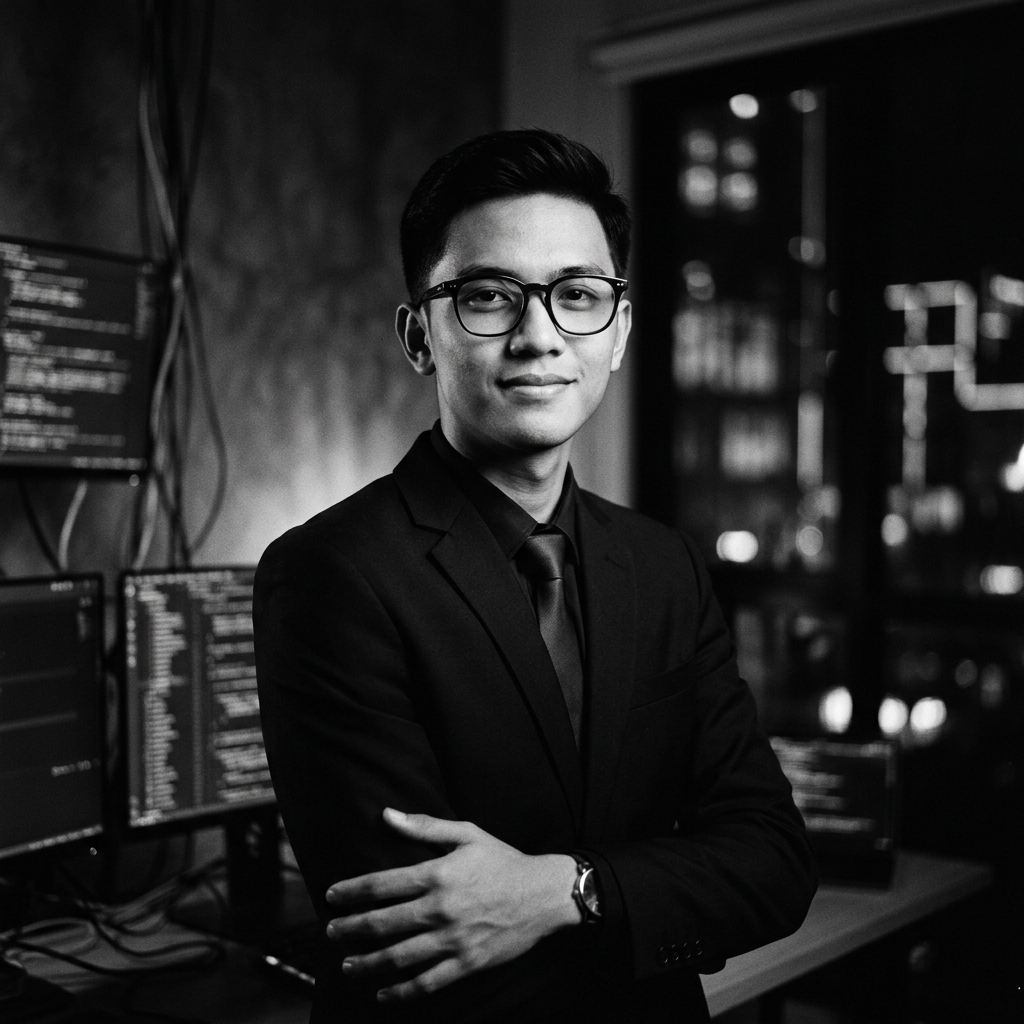
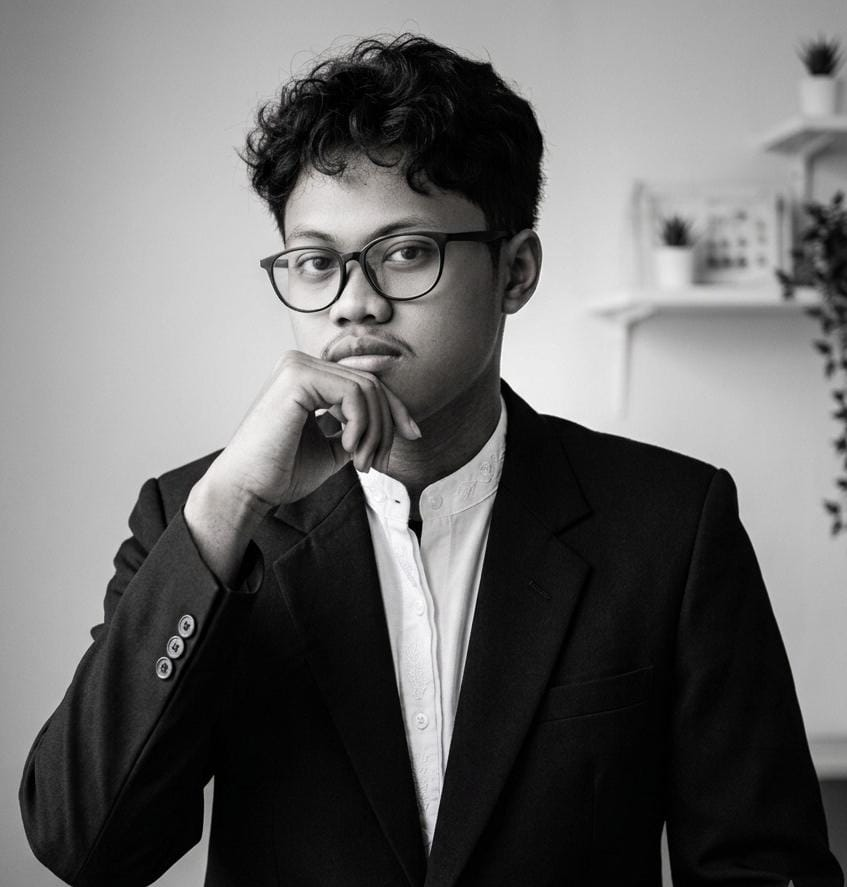
perubahan pp dan apus DevPortfolio

diff --git a/resources/views/layouts/app.blade.php b/resources/views/layouts/app.blade.php
@@ -122,15 +122,12 @@
                 <div class="flex items-center justify-between h-16">
 
                     {{-- Brand Logo --}}
-                    <a href="{{ route('home') }}" class="flex items-center gap-2.5 group">
+                    <a href="{{ route('home') }}" class="flex items-center gap-2.5 group" aria-label="Home">
                         <div class="w-8 h-8 rounded-lg bg-indigo-600/20 border border-indigo-500/30 flex items-center justify-center group-hover:bg-indigo-600/30 group-hover:border-indigo-500/50 transition-all">
                             <svg xmlns="http://www.w3.org/2000/svg" class="w-4 h-4 text-indigo-400" fill="none" viewBox="0 0 24 24" stroke="currentColor" stroke-width="2">
                                 <path stroke-linecap="round" stroke-linejoin="round" d="M10 20l4-16m4 4l4 4-4 4M6 16l-4-4 4-4"/>
                             </svg>
                         </div>
-                        <span class="font-bold text-white tracking-tight text-base group-hover:text-indigo-300 transition-colors">
-                            Dev<span class="text-indigo-400">Portfolio</span>
-                        </span>
                     </a>
 
                     {{-- Desktop Nav --}}
@@ -162,8 +159,6 @@
                                 </svg>
                                 Dashboard
                             </a>
-                        @else
-                            <a href="{{ route('login') }}" class="btn-ghost" id="nav-signin">Sign In</a>
                         @endauth
                     </div>
 
@@ -231,17 +226,13 @@
                         Progress Log
                     </a>
 
-                    <div class="pt-2 mt-1 border-t border-zinc-800">
-                        @auth
+                    @auth
+                        <div class="pt-2 mt-1 border-t border-zinc-800">
                             <a href="{{ route('dashboard') }}" @click="open = false" class="btn-ghost w-full justify-center mt-2">
                                 Dashboard
                             </a>
-                        @else
-                            <a href="{{ route('login') }}" @click="open = false" class="btn-ghost w-full justify-center mt-2">
-                                Sign In
-                            </a>
-                        @endauth
-                    </div>
+                        </div>
+                    @endauth
                 </div>
             </div>
         </nav>

diff --git a/resources/views/admin/layouts/app.blade.php b/resources/views/admin/layouts/app.blade.php
@@ -122,8 +122,7 @@
                     DV
                 </div>
                 <div>
-                    <div style="font-size:13px;font-weight:600;color:#f4f4f5;line-height:1.2;">DevPortfolio</div>
-                    <div style="font-size:10px;color:#52525b;font-weight:500;">Admin Panel</div>
+                    <div style="font-size:12px;font-weight:600;color:#f4f4f5;line-height:1.2;">Admin Panel</div>
                 </div>
             </div>
 
